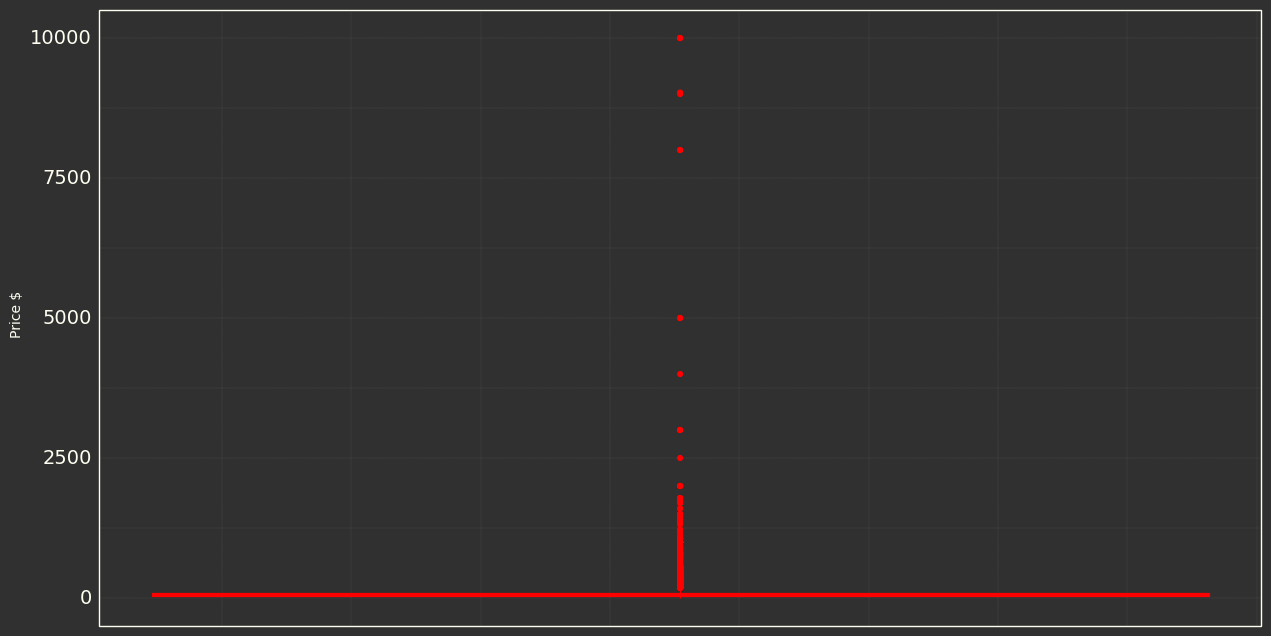
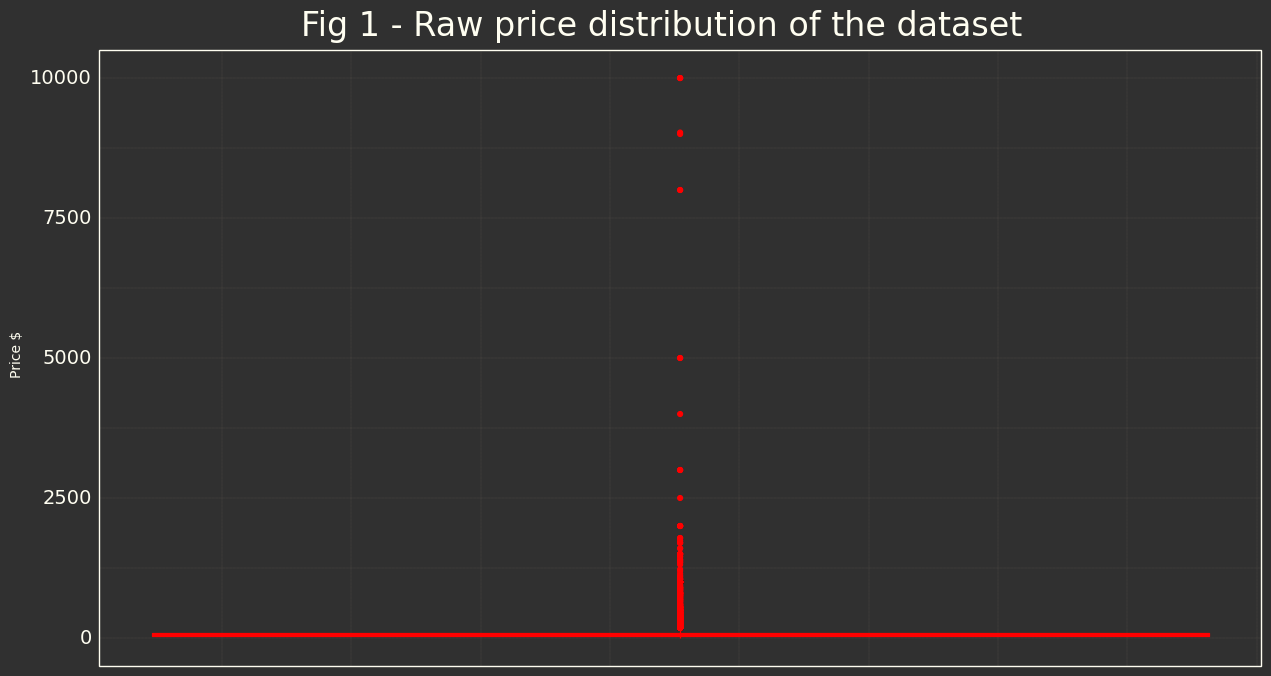
part1rewrited

diff --git a/md/airbnb/part1.md b/md/airbnb/part1.md
@@ -1,18 +1,16 @@
 # Barcelona Airbnb DS analysis (1st part)
 ## Source of data
-[Inside Airbnb](http://insideairbnb.com/get-the-data.html) --> **Barcelona**
+[Inside Airbnb](http://insideairbnb.com/get-the-data.html)
 
-Date from the Data: *12/09/2020* 
+Date: *12/09/2020*
 ```
 \
 |--Airbnb_Barcelona.ipynb
 |--data
     |-calendarBarcelona.csv
     |-listingsBarcelona.csv
-    |->> output.csv --> result file from part 1.
 ```
 
-## Libraries and Importing Raw Data
 
 ```python
 #Datamining library
@@ -31,7 +29,6 @@ airbnb_pub = raw_data.copy()
 
 ## General Exploration and Data Adjustment
 
-Take a look at first in how much data and how is that data.
 
 ```python
 print("Shape: ",airbnb_pub.shape)
@@ -123,16 +120,15 @@ print("Column Information:",airbnb_pub.info())
     Column Information: None
     
 
-The dataset has 20337 lines with 74 different columns and types.
+here it's going to be detected/reviewed/changed:
 
-Here it's going to be detected/reviewed/changed:
-
-- Aggregated columns, could be images, hashtags, datasets inside principal dataset, etc...
+- Aggregated columns, could be images, hashtags, datasets inside principal dataset, etc..
 - *Types* that for our interest should be changed.
-    - False/True Values to boolean ones
+    - False/True Values to Boolean ones
     - String types that are numeric
     - Manage Nan Values
-    - Resize using analytical and functional logic   
+    - Resize using analytical and functional logic
+   
 
 ### Currency detected as string (object) in spite of numbers (float)
 
@@ -146,11 +142,9 @@ Let's take a look to the column
 ```python
 airbnb_pub['price'].head(2)
 ```
-
     0     $80.00
     1    $200.00
     Name: price, dtype: object
-
 
 
 It has been selected to string because it has *$* symbol. So we will need to modify by clearing this symbol and changing to *float*.
@@ -158,12 +152,15 @@ It has been selected to string because it has *$* symbol. So we will need to mod
 
 ```python
 airbnb_pub['price'] = airbnb_pub['price'].str.replace("$","").str.replace(",","").astype(float)
+airbnb_pub['price'].dtype
 ```
-Now as this is going to be the variable that we would like to predict and study, let's take a look to the distribution of the data, as we want to have it cleaned, without strange values or nonsense values, and from statistical point of view, relevant data so we could predict the usual cases of the dataset.
+    dtype('float64')
+
 
 ```python
 airbnb_pub.price.describe()
 ```
+
     count    20337.00000
     mean        84.79339
     std        210.66629
@@ -185,21 +182,31 @@ If we 'graph' them it will help us to understand distribution.
 (
     ggplot(airbnb_pub,aes(x='id',y='price')) +
     geom_boxplot(fill=orange,color='red') +
-    orange_dark_theme
-).draw(); #raw
+    orange_dark_theme +
+    labs(x='',y='Price $') +
+    theme(axis_text_x=element_blank())+
+    labs(title='Fig 1 - Raw price distribution of the dataset')
+)
 ```
+
+
     
 ![png](/static/notebooks/airbnb/part1/output_14_0.png)
- 
+    
 
-Now we need to filter the price to delete statistical outliers, to try to avoid in our future model any inconsistence because outliers.
+
+Now the price filter is going to be changed till we have some values that belongs to the 'normal' expected price, to try to avoid in our future model any inconsistence because outliers. Here you have the last result, I have let some outliers to let the future model to detect some trend or non obvious behavior.
+
 
 ```python
 airbnb_pub = airbnb_pub.loc[(airbnb_pub.price <=150) & (airbnb_pub.price>0)]
 (
     ggplot(airbnb_pub,aes(x='id',y='price')) +
     geom_boxplot(fill=orange,color='red') +
-    orange_dark_theme
+    orange_dark_theme +
+    labs(x='',y='Price $') +
+    theme(axis_text_x=element_blank()) +
+    labs(title='Fig 2 - Filtered price distribution of the dataset')    
 ).draw();
 print(airbnb_pub.price.describe())
 ```
@@ -214,8 +221,29 @@ print(airbnb_pub.price.describe())
     max        150.000000
     Name: price, dtype: float64
     
-   
+
+
+    
 ![png](/static/notebooks/airbnb/part1/output_16_1.png)
+    
+
+
+Let's check only for understanding if we have normal distribution for this field.
+
+
+```python
+(
+    ggplot(airbnb_pub,aes(sample='price')) +
+    geom_qq(color=orange) + 
+    stat_qq_line(color=light_orange) +
+    labs(title='Fig 3 - QQPlot for Price Distribution') 
+)
+```
+    
+![png](/static/notebooks/airbnb/part1/output_18_0.png)
+    
+
+As we know because we have done ^^U, we have normal distribution manually limited, and scored to the left. This will be important if in next parts we need to use some model impacted by normality of predicted value.
 
 After that we have now smaller data collection without outliers, so we could think that we are going to take the usual behavior of the dataset in 95% of confidence.
 
@@ -226,6 +254,7 @@ There are some data that is composed by different other data, we want to use the
 ```python
 airbnb_pub.amenities.head(3)
 ```
+
     0    ["Carbon monoxide alarm", "Fire extinguisher",...
     3    ["Stove", "Microwave", "Refrigerator", "Oven",...
     4    ["Refrigerator", "Microwave", "Carbon monoxide...
@@ -250,8 +279,34 @@ for index, item in enumerate(columns):
 
 
 ```python
-# dataframe with new columns
 df_amenities = pd.DataFrame(amenities.toarray(),columns=columns)
+df_amenities.drop('',axis=1,inplace=True)
+```
+
+After this process there are some duplicated columns that I will deal by checking if someone has true value, if yes, then it will select for the final value, and drop duplicates.
+
+
+```python
+df_repeated = pd.DataFrame()
+print('Starting amenities files, columns: ',df_amenities.shape)
+for col in df_amenities.columns:
+    if col not in df_repeated.columns:
+         if len(df_amenities.filter(like=col).columns) > 1:
+            df_repeated[col] = df_amenities[col].any(1)
+            df_repeated = df_repeated.applymap(lambda x: 1 if x else 0)        
+            df_amenities.drop(col,axis=1,inplace=True)
+df_amenities = pd.concat([df_amenities,df_repeated],axis=1,join='inner')
+print('Final amenities files, columns: ',df_amenities.shape)
+```
+
+    Starting amenities files, columns:  (18466, 205)
+    Final amenities files, columns:  (18466, 106)
+    
+
+We have remove $>90$ repeated columns which will help to our model to be more efficient. Amenities looks like:
+
+
+```python
 df_amenities.head(2)
 ```
 
@@ -273,45 +328,58 @@ df_amenities.head(2)
   <thead>
     <tr style="text-align: right;">
       <th></th>
-      <th>air conditioning</th>
-      <th>air conditioning</th>
       <th>baby bath</th>
+      <th>baby monitor</th>
       <th>...</th>
+      <th>smart lock</th>
+      <th>smoke alarm</th>
+      <th>waterfront</th>
+      <th>wifi</th>
+      <th>window guards</th>
     </tr>
   </thead>
   <tbody>
     <tr>
       <th>0</th>
-      <td>1</td>
       <td>0</td>
       <td>0</td>
       <td>...</td>
+      <td>0</td>
+      <td>1</td>
+      <td>0</td>
+      <td>1</td>
+      <td>0</td>
     </tr>
     <tr>
       <th>1</th>
-      <td>1</td>
       <td>0</td>
       <td>0</td>
       <td>...</td>
+      <td>0</td>
+      <td>0</td>
+      <td>0</td>
+      <td>1</td>
+      <td>0</td>
     </tr>
   </tbody>
 </table>
-<p>2 rows x 206 columns</p>
+<p>2 rows x 106 columns</p>
 </div>
+
 
 We will use at the end and add them to the dataset.
 
 ### Boolean literals to binary literals
 
-In the first visual exploration (different possibilities excel/csviewer/spyder/vscode....) we have seen that some columns have 't' for True and 'f' for false, we need to transform them in a way that we could use when modeling.
+In the visual exploration (most different possibilities excel/csviewer/spyder/vscode....) we have seen that some columns have 'T' for True and 'F' for false, we need to transform them in a way that we could use in future model.
 
 
 ```python
 # I'm going to 'catch' all possible columns to be transformed.
 boolean_list = []
 for col in airbnb_pub.columns:
-    if airbnb_pub[col].unique().size == 3: # we could have 't','f' or nan values
-        column_array_values = np.delete(airbnb_pub[col].unique(),2,0) #nan is always the last value
+    if airbnb_pub[col].unique().size == 3:
+        column_array_values = np.delete(airbnb_pub[col].unique(),2,0)
         if set(column_array_values)==set(['t','f']):
             boolean_list.append(col)
     if airbnb_pub[col].unique().size == 2:
@@ -334,78 +402,118 @@ for col in boolean_list:
     airbnb_pub[col] = airbnb_pub[col].replace('t',1)
 ```
 
+### Neighbourhood could be used?
+
+
+```python
+airbnb_pub.filter(like='neigh').info()
+```
+
+    <class 'pandas.core.frame.DataFrame'>
+    Int64Index: 18466 entries, 0 to 20336
+    Data columns (total 5 columns):
+     #   Column                        Non-Null Count  Dtype 
+    ---  ------                        --------------  ----- 
+     0   neighborhood_overview         11264 non-null  object
+     1   host_neighbourhood            13472 non-null  object
+     2   neighbourhood                 11264 non-null  object
+     3   neighbourhood_cleansed        18466 non-null  object
+     4   neighbourhood_group_cleansed  18466 non-null  object
+    dtypes: object(5)
+    memory usage: 865.6+ KB
+    
+
+We will get *neighbourhood_cleansed* because it has more accurately location, it's subgroup of neighborhood_group_cleansed, and we could return, or re-categorize through this column any time we want. Both don't have *nan* values, so are perfect for our analysis.
+
 ### Looking for nan values in number columns
-We have seen that we have different types in our dataset, in this case we want to look for numerical ones, we have only 2 types in our dataset that are numericals *float64* and *int64*.
-We want to know if they are completed or have *Nan* values, if *Nan* then we want to change with the mean of the serie (column).
+We have seen that we have different types in our dataset, in this case we want to look for numerical ones, we have only 2 types in our dataset that are numerical float64 and int64. We want to know if they are completed or have Nan values, if Nan then we want to change with the mean of the Serie (column).
 
 ```Notice that false true changed to boolean could be also affected```
 
 
 ```python
 for c in airbnb_pub:
-    if ((airbnb_pub[c].dtype=='float64') | (airbnb_pub[c].dtype=='int64')): #only numeric
-        if airbnb_pub[c].isnull().any(): #columns with nan/null values
+    if ((airbnb_pub[c].dtype=='float64') | (airbnb_pub[c].dtype=='int64')):
+        if airbnb_pub[c].isnull().any():
             airbnb_pub[c] = airbnb_pub[c].fillna(airbnb_pub[c].median())
+for col in airbnb_pub.columns:
+    if airbnb_pub[col].size == airbnb_pub[col].isnull().sum():
+        airbnb_pub.drop(col,axis=1,inplace=True)
+```
+
+### Calculated field
+Location could be something important in price calculation (near to the beach, good neighbourhood, etc..), to have quick metric valuation 2D location is going to be transformed to 1D location variable by adding the 2 values (could be any other operation).
+
+
+```python
+airbnb_pub['location1d'] = airbnb_pub['latitude'] + airbnb_pub['longitude']
 ```
 
 ### Creating our final output dataset to start with analytics
-
 **Summary**
 
 - We have detected some pricing data that initially was selected as string and we have changed it to numeric format.
-- Resize our dataset by clearing all negative prizes and outliers prizes.
-- All string boolean values have been changed to numeric ones.
+- Resize our dataset by clearing all negative prices and outliers prices.
+- All string Boolean values have been changed to numeric ones.
 - All Nan numeric dataset values have been treated to avoid any numerical issue
-- Some data items are dataset itself, we have catch it, split and transform in an individual dataset
+- Some data items are dataset itself, we have caught it, split and transform in an individual dataset
+- Checked if some feature could be interesting and validate it (nan, etc..)
 
-We have to take some decission about which data will be relevant for our model, which columns, thinking that our objective is to have a model that predicts or help us which values are most relevant in price determination.
+We have to take some decision about which data will be relevant for our model, which columns, thinking that our objective is to have a model that predicts or help us which values are most relevant in price determination.
 
 We will also add our amenities dataset as we found them relevant for price determination, and we want to have them in our model.
 
 
 ```python
-#Small script to let me select in the next step the columns easily using notebook :P
-#I have cleared the output because readability reasons.
+#Small script to let me select in the next step the columns easylly using notebook :P
+#I have cleared the output to readability reasons.
 for c in airbnb_pub.columns:
     print('"',c,'",',sep="")
 ```
+
     "id",
     "listing_url",
     "scrape_id",
-    ...
-    ...    
+    "...",
+    "calculated_host_listings_count_private_rooms",
+    "calculated_host_listings_count_shared_rooms",
+    "reviews_per_month",
+    "location1d",
+    
 
 
 ```python
 airbnb_pub = airbnb_pub[[
+"id",
 "host_is_superhost",
 "host_identity_verified",
 "host_has_profile_pic",
 "instant_bookable",
 "bedrooms",
 "room_type",
-"bathrooms",
 "beds",
+"neighbourhood_cleansed",
 "property_type",
 "number_of_reviews",
 "host_listings_count",
 "host_total_listings_count",
 "minimum_nights",
+"review_scores_rating",
 "latitude",
 "longitude",
-"review_scores_rating",
+"location1d",
 "price"
 ]]
 ```
 
 
 ```python
-airbnb_data = pd.concat([airbnb_pub,df_amenities],axis=1,join='inner')#inner, only existing values
+airbnb_data = pd.concat([airbnb_pub,df_amenities],axis=1,join='inner')
 airbnb_data.to_csv("./data/output.csv")
 print("Final output dataset Shape: ",airbnb_data.shape)
 ```
 
-    Final output dataset Shape:  (16732, 225)
+    Final output dataset Shape:  (16732, 125)
     
 
 And that's all, airbnb data cleaning has been done and we are ready for analyze the data that we 'feel' that is relevant for pricing, of course, using the same pipeline we could test/check and re-catch all the steps that we have done to review or try or remove some data with the results we have when modeling or analyzing the data.
